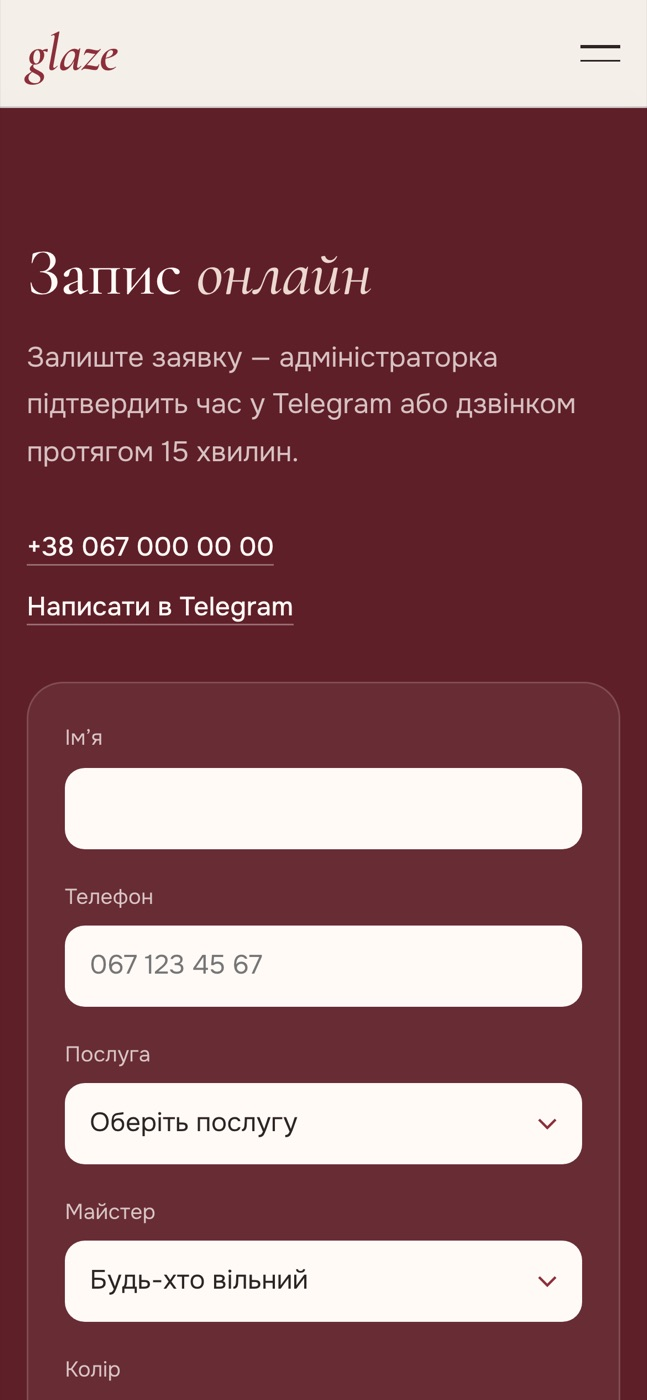
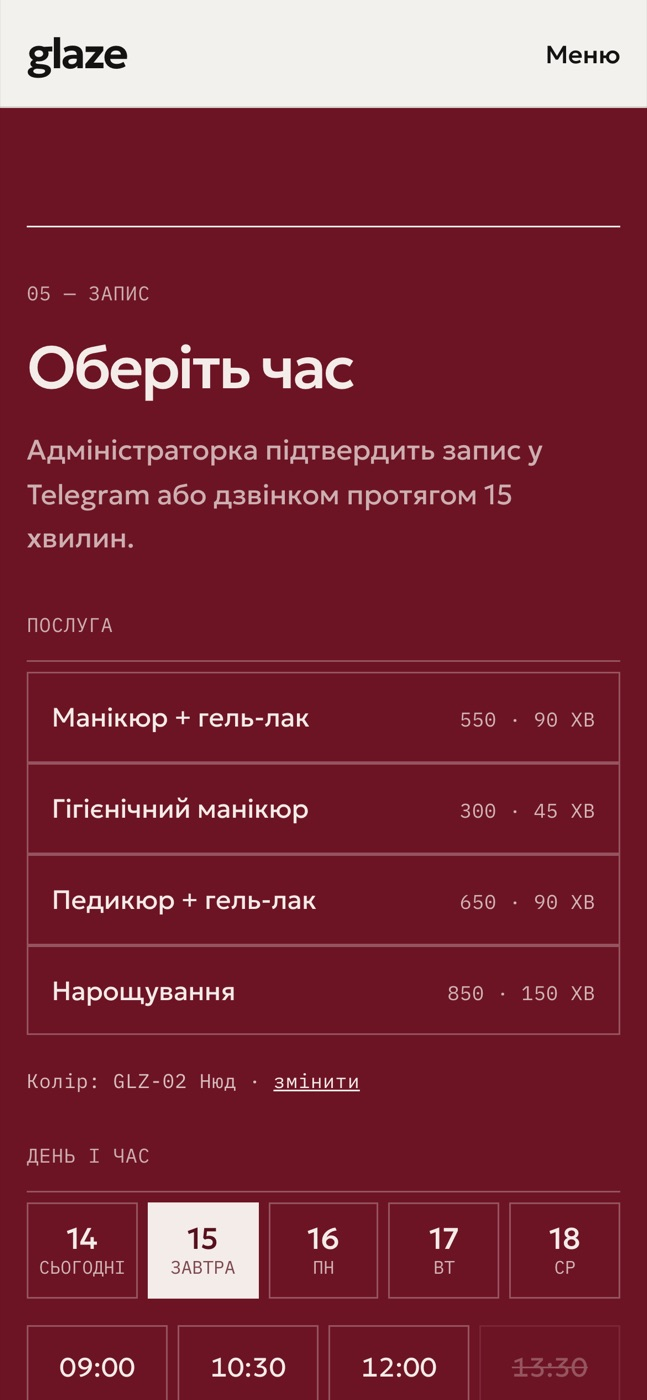
Update Glaze case study for the redesign

diff --git a/src/i18n.jsx b/src/i18n.jsx
@@ -102,14 +102,14 @@ export const translations = {
       glaze: {
         tagline: "Концепт сайту студії манікюру",
         description:
-          "Світлий односторінковий сайт для студії манікюру — навмисно протилежний темній Britva. Фото в арках, що повторюють форму нігтя, палітра «кольорів сезону», прайс як у меню, блок про стерильність і онлайн-запис. Дизайн і верстка з нуля, без фреймворків.",
+          "Сайт студії манікюру, зібраний як каталог кольорів: строга сітка на 12 колонок, тонкі лінії, гротеск і моно для кодів. Головний експонат — зразки лаку GLZ-01…08, прайс — справжня таблиця з часом і ціною, запис — вибір дня й часу кнопками. Дизайн і верстка з нуля, без фреймворків.",
         badge: "Концепт: дизайн і розробка — 2026",
         role: "Дизайн і верстка",
         highlights: [
-          { title: "Палітра, що записує", text: "Кольори сезону намальовані як нігтики з відблиском лаку. Натискаєш на відтінок — і він одразу з’являється в полі «Колір» форми запису." },
+          { title: "Колір як головний експонат", text: "Вісім зразків лаку з кодами й фінішем, як у фірмовій книжці кольорів. Натискаєш на зразок — і він одразу з’являється в заявці." },
           { title: "Довіра через стерильність", text: "Окремий блок із чотирма етапами обробки інструментів: для клієнток манікюру це головне питання перед першим візитом." },
-          { title: "Ціни без сюрпризів", text: "Прайс у три колонки з крапковими лідерами, як у меню ресторану: манікюр, педикюр, дизайн." },
-          { title: "Телефон — головний екран", text: "На мобільному фото йде першим, галерея гортається вбік, меню повноекранне, кнопка запису з’являється після першого екрана." },
+          { title: "Прайс як таблиця", text: "Послуга, час і ціна в одному рядку, табличні цифри, групи манікюр / педикюр / дизайн. Клієнтка бачить, скільки часу закласти на візит." },
+          { title: "Запис без випадних списків", text: "Послуга, день і час обираються кнопками, зайняті слоти перекреслені. На телефоні — та сама логіка, зразки гортаються вбік." },
         ],
       },
     },
@@ -307,14 +307,14 @@ export const translations = {
       glaze: {
         tagline: "Nail studio website concept",
         description:
-          "A light one-page site for a nail studio — the deliberate opposite of the dark Britva. Arch-shaped photos echoing the shape of a nail, a palette of seasonal colours, a menu-style price list, a sterility section and online booking. Designed and built from scratch, no frameworks.",
+          "A nail studio site built like a colour catalogue: a strict 12-column grid, hairline rules, a grotesk paired with a mono for codes. Lacquer swatches GLZ-01…08 are the hero, the price list is a real table with time and price, and booking uses day and time buttons. Designed and built from scratch, no frameworks.",
         badge: "Concept: design & development — 2026",
         role: "Design and front-end",
         highlights: [
-          { title: "A palette that books", text: "Seasonal colours are drawn as glossy little nails. Tap a shade and it lands straight in the booking form’s colour field." },
+          { title: "Colour as the hero", text: "Eight lacquer swatches with codes and finish, like a brand colour book. Tap a swatch and it lands straight in the booking request." },
           { title: "Trust through sterility", text: "A dedicated section with the four steps of tool sterilisation — the main question clients have before a first visit." },
-          { title: "Prices with no surprises", text: "A three-column price list with dotted leaders, like a restaurant menu: manicure, pedicure, nail art." },
-          { title: "Phone first", text: "On mobile the photo comes first, the gallery scrolls sideways, the menu is full-screen and the booking button appears after the first screen." },
+          { title: "Prices as a table", text: "Service, time and price on one line with tabular figures, grouped into manicure, pedicure and nail art — clients see how long to plan for." },
+          { title: "Booking without dropdowns", text: "Service, day and time are picked with buttons, taken slots are struck through. The same logic on phones, with swatches scrolling sideways." },
         ],
       },
     },

diff --git a/src/projects.js b/src/projects.js
@@ -78,13 +78,14 @@ export const PROJECTS = [
       github: "https://github.com/ttjelky/nail-studio-landing",
     },
     gallery: [
+      [{ src: "projects/glaze/palette.jpg", w: 2000, h: 1250 }],
       [
-        { src: "projects/glaze/palette.jpg", w: 2000, h: 1250 },
-        { src: "projects/glaze/care.jpg", w: 2000, h: 1250 },
+        { src: "projects/glaze/prices.jpg", w: 2000, h: 1250 },
+        { src: "projects/glaze/booking.jpg", w: 2000, h: 1250 },
       ],
       [
         { src: "projects/glaze/m-hero.jpg", w: 647, h: 1400, phone: true },
-        { src: "projects/glaze/m-prices.jpg", w: 647, h: 1400, phone: true },
+        { src: "projects/glaze/m-colors.jpg", w: 647, h: 1400, phone: true },
         { src: "projects/glaze/m-booking.jpg", w: 647, h: 1400, phone: true },
       ],
     ],
